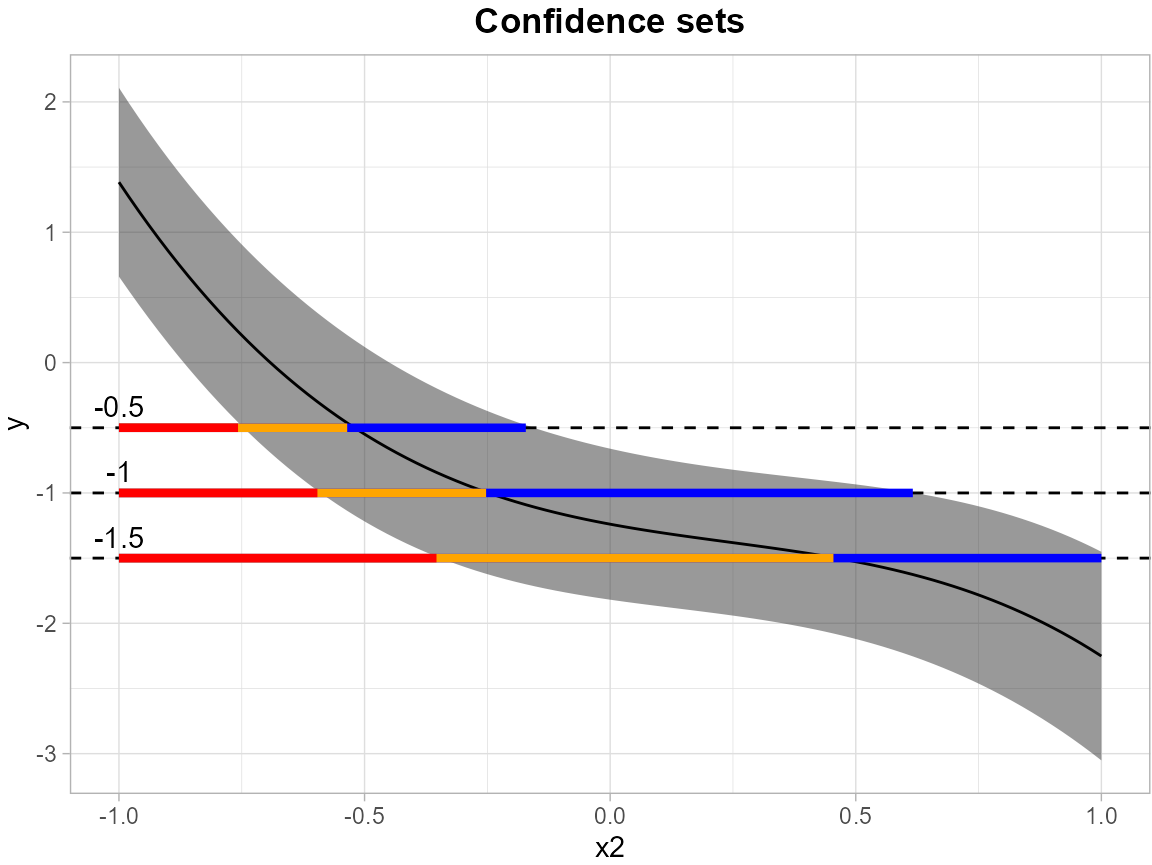
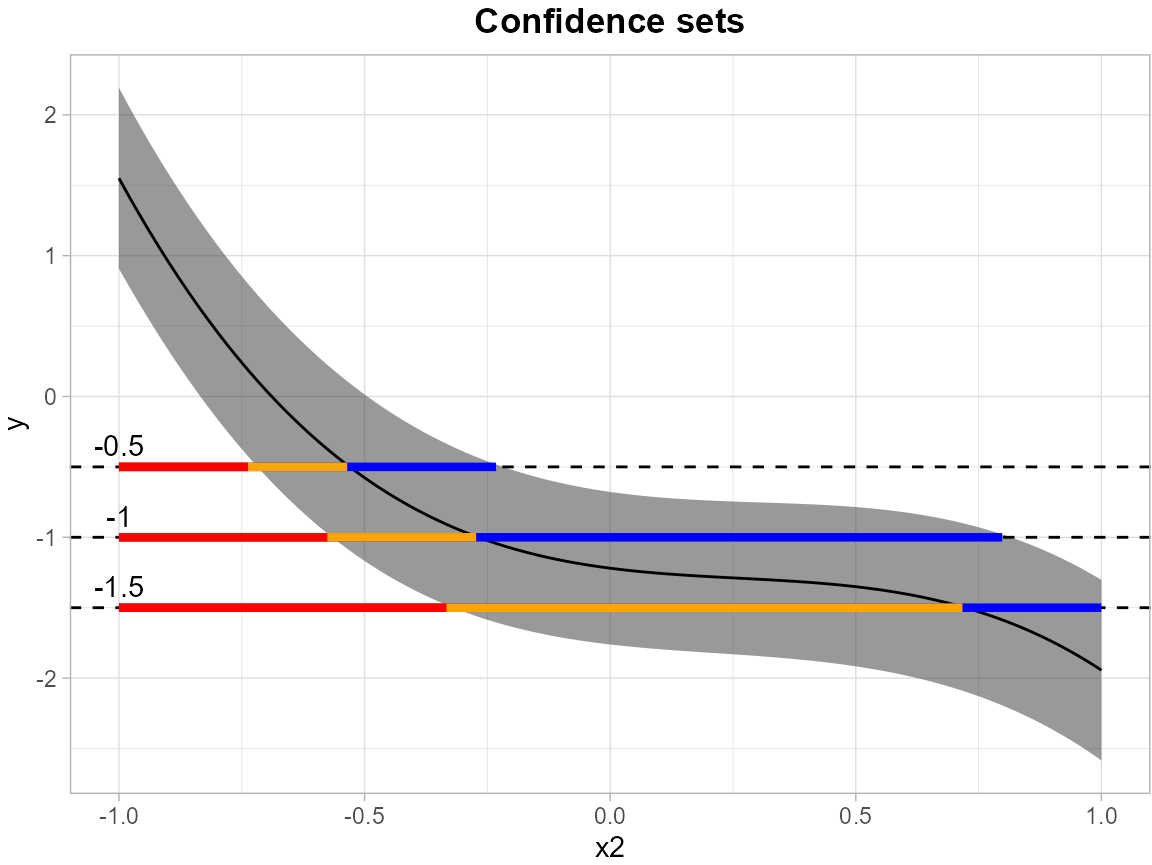
Update instructions in Linear_Model_Example vignette

diff --git a/docs/articles/Linear_Model_Example.html b/docs/articles/Linear_Model_Example.html
@@ -62,7 +62,7 @@
       <h1>Linear_Model_Example</h1>
                         <h4 data-toc-skip class="author">Angela Yu</h4>
             
-            <h4 data-toc-skip class="date">2025-09-25</h4>
+            <h4 data-toc-skip class="date">2025-09-26</h4>
       
       <small class="dont-index">Source: <a href="https://github.com/AngelaYuStat/SCoRES/blob/HEAD/vignettes/Linear_Model_Example.Rmd" class="external-link"><code>vignettes/Linear_Model_Example.Rmd</code></a></small>
       <div class="d-none name"><code>Linear_Model_Example.Rmd</code></div>
@@ -80,9 +80,15 @@ training design matrix used to fit the linear model, while
 <code>grid_df</code> define the mean outcome for which simultaneous
 confidence bands (SCB) are constructed. Use argument <code>model</code>
 to specify the formula used for fitting the linear model.</p>
-<p>In the following example, we establishes simultaneous confidence
-bands for the expected response surface
-<math display="inline" xmlns="http://www.w3.org/1998/Math/MathML"><semantics><mrow><mi>E</mi><mrow><mo stretchy="true" form="prefix">[</mo><mi>Y</mi><mo stretchy="false" form="prefix">|</mo><msub><mi>X</mi><mn>1</mn></msub><mo>,</mo><msubsup><mi>X</mi><mn>1</mn><mn>2</mn></msubsup><mo>,</mo><msubsup><mi>X</mi><mn>1</mn><mn>3</mn></msubsup><mo>,</mo><msub><mi>X</mi><mn>2</mn></msub><mo>,</mo><msubsup><mi>X</mi><mn>2</mn><mn>2</mn></msubsup><mo>,</mo><msubsup><mi>X</mi><mn>3</mn><mn>2</mn></msubsup><mo stretchy="true" form="postfix">]</mo></mrow></mrow><annotation encoding="application/x-tex">E[Y|X_1,X^2_1,X^3_1,X_2,X^2_2,X^2_3]</annotation></semantics></math>,
+<p>In the following example, we use a linear regression to estimate the
+simultaneous confidence band (SCB) for the mean outcome, with modeling
+equation as follows:</p>
+<p><math display="block" xmlns="http://www.w3.org/1998/Math/MathML"><semantics><mrow><msub><mi>Y</mi><mi>i</mi></msub><mo>=</mo><msub><mi>β</mi><mn>0</mn></msub><mo>+</mo><msub><mi>β</mi><mn>1</mn></msub><msub><mi>x</mi><mrow><mi>i</mi><mn>1</mn></mrow></msub><mo>+</mo><msub><mi>β</mi><mn>2</mn></msub><msubsup><mi>x</mi><mrow><mi>i</mi><mn>1</mn></mrow><mn>2</mn></msubsup><mo>+</mo><msub><mi>β</mi><mn>3</mn></msub><msubsup><mi>x</mi><mrow><mi>i</mi><mn>1</mn></mrow><mn>3</mn></msubsup><mo>+</mo><msub><mi>β</mi><mn>4</mn></msub><msub><mi>x</mi><mrow><mi>i</mi><mn>2</mn></mrow></msub><mo>+</mo><msub><mi>β</mi><mn>5</mn></msub><msubsup><mi>x</mi><mrow><mi>i</mi><mn>2</mn></mrow><mn>2</mn></msubsup><mo>+</mo><msub><mi>β</mi><mn>6</mn></msub><msubsup><mi>x</mi><mrow><mi>i</mi><mn>2</mn></mrow><mn>3</mn></msubsup><mo>+</mo><msub><mi>ϵ</mi><mi>i</mi></msub></mrow><annotation encoding="application/x-tex">
+Y_i = \beta_0 + \beta_1 x_{i1} + \beta_2 x_{i1}^2 + \beta_3 x_{i1}^3 + \beta_4 x_{i2} + \beta_5 x_{i2}^2 + \beta_6 x_{i2}^3 + \epsilon_i
+</annotation></semantics></math></p>
+<p>We establish simultaneous confidence bands for the expected response
+surface
+<math display="inline" xmlns="http://www.w3.org/1998/Math/MathML"><semantics><mrow><mi>E</mi><mrow><mo stretchy="true" form="prefix">[</mo><mi>Y</mi><mo stretchy="false" form="prefix">|</mo><msub><mi>X</mi><mn>1</mn></msub><mo>,</mo><msub><mi>X</mi><mn>2</mn></msub><mo stretchy="true" form="postfix">]</mo></mrow></mrow><annotation encoding="application/x-tex">E[Y|X_1,X_2]</annotation></semantics></math>,
 with the independent variables
 <math display="inline" xmlns="http://www.w3.org/1998/Math/MathML"><semantics><msub><mi>X</mi><mn>1</mn></msub><annotation encoding="application/x-tex">X_1</annotation></semantics></math>
 and
@@ -120,11 +126,62 @@ the outer confidence region.</p>
 <span>        palette <span class="op">=</span> <span class="st">"Spectral"</span>, </span>
 <span>        color_level_label <span class="op">=</span> <span class="st">"black"</span><span class="op">)</span><span class="op">)</span></span></code></pre></div>
 <p><img src="Linear_Model_Example_files/figure-html/simulate_plot_cs_linear-1.png" width="576"></p>
+<p>In the following example, we establishes simultaneous confidence
+bands for the expected response surface
+<math display="inline" xmlns="http://www.w3.org/1998/Math/MathML"><semantics><mrow><mi>E</mi><mrow><mo stretchy="true" form="prefix">[</mo><mi>Y</mi><mo stretchy="false" form="prefix">|</mo><msub><mi>X</mi><mn>1</mn></msub><mo>,</mo><msub><mi>X</mi><mn>2</mn></msub><mo>=</mo><mn>0</mn><mo stretchy="true" form="postfix">]</mo></mrow></mrow><annotation encoding="application/x-tex">E[Y|X_1, X_2 =0]</annotation></semantics></math>,
+with the independent variable
+<math display="inline" xmlns="http://www.w3.org/1998/Math/MathML"><semantics><msub><mi>X</mi><mn>1</mn></msub><annotation encoding="application/x-tex">X_1</annotation></semantics></math>
+discretized into 100 equidistant points over the domain
+<math display="inline" xmlns="http://www.w3.org/1998/Math/MathML"><semantics><mrow><mo stretchy="true" form="prefix">[</mo><mi>−</mi><mn>1</mn><mo>,</mo><mn>1</mn><mo stretchy="true" form="postfix">]</mo></mrow><annotation encoding="application/x-tex">[-1, 1]</annotation></semantics></math>.</p>
+<div class="sourceCode" id="cb3"><pre class="downlit sourceCode r">
+<code class="sourceCode R"><span><span class="va">x1</span> <span class="op">&lt;-</span> <span class="fu"><a href="https://rdrr.io/r/stats/Normal.html" class="external-link">rnorm</a></span><span class="op">(</span><span class="fl">100</span><span class="op">)</span></span>
+<span><span class="va">x2</span> <span class="op">&lt;-</span> <span class="fu"><a href="https://rdrr.io/r/stats/Normal.html" class="external-link">rnorm</a></span><span class="op">(</span><span class="fl">100</span><span class="op">)</span></span>
+<span><span class="va">epsilon</span> <span class="op">&lt;-</span> <span class="fu"><a href="https://rdrr.io/r/stats/Normal.html" class="external-link">rnorm</a></span><span class="op">(</span><span class="fl">100</span>,<span class="fl">0</span>,<span class="fu"><a href="https://rdrr.io/r/base/MathFun.html" class="external-link">sqrt</a></span><span class="op">(</span><span class="fl">2</span><span class="op">)</span><span class="op">)</span></span>
+<span><span class="va">y</span> <span class="op">&lt;-</span> <span class="op">-</span><span class="fl">1</span> <span class="op">+</span> <span class="va">x1</span> <span class="op">+</span> <span class="fl">0.5</span> <span class="op">*</span> <span class="va">x1</span><span class="op">^</span><span class="fl">2</span> <span class="op">-</span> <span class="fl">1.1</span> <span class="op">*</span> <span class="va">x1</span><span class="op">^</span><span class="fl">3</span> <span class="op">-</span> <span class="fl">0.5</span> <span class="op">*</span> <span class="va">x2</span> <span class="op">+</span> <span class="fl">0.8</span> <span class="op">*</span> <span class="va">x2</span><span class="op">^</span><span class="fl">2</span> <span class="op">-</span> <span class="fl">1.1</span> <span class="op">*</span> <span class="va">x2</span><span class="op">^</span><span class="fl">3</span> <span class="op">+</span> <span class="va">epsilon</span></span>
+<span><span class="va">df</span> <span class="op">&lt;-</span> <span class="fu"><a href="https://rdrr.io/r/base/data.frame.html" class="external-link">data.frame</a></span><span class="op">(</span>x1 <span class="op">=</span> <span class="va">x1</span>, x2 <span class="op">=</span> <span class="va">x2</span>, y <span class="op">=</span> <span class="va">y</span><span class="op">)</span></span>
+<span><span class="co"># fit the linear regression model and obtain the SCB for y</span></span>
+<span><span class="va">model</span> <span class="op">&lt;-</span> <span class="st">"y ~ x1 + I(x1^2) + I(x1^3) + x2 + I(x2^2) + I(x2^3)"</span></span>
+<span><span class="va">grid</span> <span class="op">&lt;-</span> <span class="fu"><a href="https://rdrr.io/r/base/data.frame.html" class="external-link">data.frame</a></span><span class="op">(</span>x2 <span class="op">=</span> <span class="fu"><a href="https://rdrr.io/r/base/seq.html" class="external-link">seq</a></span><span class="op">(</span><span class="op">-</span><span class="fl">1</span>, <span class="fl">1</span>, length.out <span class="op">=</span> <span class="fl">100</span><span class="op">)</span><span class="op">)</span></span>
+<span><span class="va">results</span> <span class="op">&lt;-</span> <span class="fu"><a href="../reference/SCB_linear_outcome.html">SCB_linear_outcome</a></span><span class="op">(</span>df_fit <span class="op">=</span> <span class="va">df</span>, model <span class="op">=</span> <span class="va">model</span>, grid_df <span class="op">=</span> <span class="va">grid</span><span class="op">)</span></span></code></pre></div>
+<p>The <code>levels = c(-1.5, -1.0, -0.5)</code> argument specifies a
+set of thresholds, and <code><a href="../reference/plot_cs.html">SCoRES::plot_cs()</a></code> function estimates
+multiple inverse upper excursion sets corresponding to these thresholds,
+and plot the estimated inverse region, the inner confidence region, and
+the outer confidence region.</p>
+<div class="sourceCode" id="cb4"><pre class="downlit sourceCode r">
+<code class="sourceCode R"><span><span class="va">results</span> <span class="op">&lt;-</span> <span class="fu">tibble</span><span class="fu">::</span><span class="fu"><a href="https://tibble.tidyverse.org/reference/as_tibble.html" class="external-link">as_tibble</a></span><span class="op">(</span><span class="va">results</span><span class="op">)</span></span>
+<span><span class="fu"><a href="https://rdrr.io/r/base/warning.html" class="external-link">suppressWarnings</a></span><span class="op">(</span><span class="fu"><a href="../reference/plot_cs.html">plot_cs</a></span><span class="op">(</span><span class="va">results</span>,</span>
+<span>        levels <span class="op">=</span> <span class="fu"><a href="https://rdrr.io/r/base/c.html" class="external-link">c</a></span><span class="op">(</span><span class="op">-</span><span class="fl">1.5</span>, <span class="op">-</span><span class="fl">1.0</span>, <span class="op">-</span><span class="fl">0.5</span><span class="op">)</span>, </span>
+<span>        x <span class="op">=</span> <span class="fu"><a href="https://rdrr.io/r/base/seq.html" class="external-link">seq</a></span><span class="op">(</span><span class="op">-</span><span class="fl">1</span>, <span class="fl">1</span>, length.out <span class="op">=</span> <span class="fl">100</span><span class="op">)</span>, </span>
+<span>        mu_hat <span class="op">=</span> <span class="va">results</span><span class="op">$</span><span class="va">Mean</span>, </span>
+<span>        xlab <span class="op">=</span> <span class="st">"x2"</span>, </span>
+<span>        ylab <span class="op">=</span> <span class="st">"y"</span>, </span>
+<span>        level_label <span class="op">=</span> <span class="cn">T</span>, </span>
+<span>        min.size <span class="op">=</span> <span class="fl">40</span>, </span>
+<span>        palette <span class="op">=</span> <span class="st">"Spectral"</span>, </span>
+<span>        color_level_label <span class="op">=</span> <span class="st">"black"</span><span class="op">)</span><span class="op">)</span></span></code></pre></div>
+<p><img src="Linear_Model_Example_files/figure-html/simulate_plot_cs_linear_2-1.png" width="576"></p>
 <p>In addition to linear regression, <code>SCoRES</code> also
 provides<code><a href="../reference/SCB_logistic_outcome.html">SCoRES::SCB_logistic_outcome()</a></code> for estimating the
-SCB for outcome of logistic regression. The mean outcome here for
-establishing the SCB stays the same.</p>
-<div class="sourceCode" id="cb3"><pre class="downlit sourceCode r">
+SCB for outcome of logistic regression.</p>
+<p>Here, we use a similar model structure with logistic regression to
+estimate the simultaneous confidence band (SCB) for the outcome
+probability, with modeling equation as follows:</p>
+<p><math display="block" xmlns="http://www.w3.org/1998/Math/MathML"><semantics><mrow><msub><mi>Y</mi><mi>i</mi></msub><mo>∼</mo><mi>B</mi><mi>e</mi><mi>r</mi><mi>n</mi><mi>o</mi><mi>u</mi><mi>l</mi><mi>l</mi><mi>i</mi><mrow><mo stretchy="true" form="prefix">(</mo><msub><mi>p</mi><mi>i</mi></msub><mo stretchy="true" form="postfix">)</mo></mrow></mrow><annotation encoding="application/x-tex">
+Y_i \sim Bernoulli(p_i)
+</annotation></semantics></math><math display="block" xmlns="http://www.w3.org/1998/Math/MathML"><semantics><mrow><mo>log</mo><mrow><mo stretchy="true" form="prefix">(</mo><mfrac><msub><mi>p</mi><mi>i</mi></msub><mrow><mn>1</mn><mo>−</mo><msub><mi>p</mi><mi>i</mi></msub></mrow></mfrac><mo stretchy="true" form="postfix">)</mo></mrow><mo>=</mo><msub><mi>β</mi><mn>0</mn></msub><mo>+</mo><msub><mi>β</mi><mn>1</mn></msub><msub><mi>x</mi><mrow><mi>i</mi><mn>1</mn></mrow></msub><mo>+</mo><msub><mi>β</mi><mn>2</mn></msub><msubsup><mi>x</mi><mrow><mi>i</mi><mn>1</mn></mrow><mn>2</mn></msubsup><mo>+</mo><msub><mi>β</mi><mn>3</mn></msub><msubsup><mi>x</mi><mrow><mi>i</mi><mn>1</mn></mrow><mn>3</mn></msubsup><mo>+</mo><msub><mi>β</mi><mn>4</mn></msub><msub><mi>x</mi><mrow><mi>i</mi><mn>2</mn></mrow></msub><mo>+</mo><msub><mi>β</mi><mn>5</mn></msub><msubsup><mi>x</mi><mrow><mi>i</mi><mn>2</mn></mrow><mn>2</mn></msubsup><mo>+</mo><msub><mi>β</mi><mn>6</mn></msub><msubsup><mi>x</mi><mrow><mi>i</mi><mn>2</mn></mrow><mn>3</mn></msubsup></mrow><annotation encoding="application/x-tex">
+\log\left(\frac{p_i}{1-p_i}\right) = \beta_0 + \beta_1 x_{i1} + \beta_2 x_{i1}^2 + \beta_3 x_{i1}^3 + \beta_4 x_{i2} + \beta_5 x_{i2}^2 + \beta_6 x_{i2}^3
+</annotation></semantics></math></p>
+<p>We establish simultaneous confidence bands for the expected response
+surface
+<math display="inline" xmlns="http://www.w3.org/1998/Math/MathML"><semantics><mrow><mtext mathvariant="normal">logit</mtext><mrow><mo stretchy="true" form="prefix">(</mo><mi>E</mi><mrow><mo stretchy="true" form="prefix">[</mo><mi>Y</mi><mo stretchy="false" form="prefix">|</mo><msub><mi>X</mi><mn>1</mn></msub><mo>,</mo><msub><mi>X</mi><mn>2</mn></msub><mo stretchy="true" form="postfix">]</mo></mrow><mo stretchy="true" form="postfix">)</mo></mrow></mrow><annotation encoding="application/x-tex">\text{logit}(E[Y|X_1,X_2])</annotation></semantics></math>,
+with the independent variables
+<math display="inline" xmlns="http://www.w3.org/1998/Math/MathML"><semantics><msub><mi>X</mi><mn>1</mn></msub><annotation encoding="application/x-tex">X_1</annotation></semantics></math>
+and
+<math display="inline" xmlns="http://www.w3.org/1998/Math/MathML"><semantics><msub><mi>X</mi><mn>2</mn></msub><annotation encoding="application/x-tex">X_2</annotation></semantics></math>
+discretized into 100 equidistant points over the domain
+<math display="inline" xmlns="http://www.w3.org/1998/Math/MathML"><semantics><mrow><mo stretchy="true" form="prefix">[</mo><mi>−</mi><mn>1</mn><mo>,</mo><mn>1</mn><mo stretchy="true" form="postfix">]</mo></mrow><annotation encoding="application/x-tex">[-1, 1]</annotation></semantics></math>.</p>
+<div class="sourceCode" id="cb5"><pre class="downlit sourceCode r">
 <code class="sourceCode R"><span><span class="co"># generate simulated data</span></span>
 <span><span class="va">x1</span> <span class="op">&lt;-</span> <span class="fu"><a href="https://rdrr.io/r/stats/Normal.html" class="external-link">rnorm</a></span><span class="op">(</span><span class="fl">100</span><span class="op">)</span></span>
 <span><span class="va">x2</span> <span class="op">&lt;-</span> <span class="fu"><a href="https://rdrr.io/r/stats/Normal.html" class="external-link">rnorm</a></span><span class="op">(</span><span class="fl">100</span><span class="op">)</span></span>
@@ -141,7 +198,7 @@ specifies a set of thresholds, and <code><a href="../reference/plot_cs.html">SCo
 function estimates multiple inverse upper excursion sets corresponding
 to these thresholds, and plot the estimated inverse region, the inner
 confidence region, and the outer confidence region.</p>
-<div class="sourceCode" id="cb4"><pre class="downlit sourceCode r">
+<div class="sourceCode" id="cb6"><pre class="downlit sourceCode r">
 <code class="sourceCode R"><span><span class="va">results</span> <span class="op">&lt;-</span> <span class="fu">tibble</span><span class="fu">::</span><span class="fu"><a href="https://tibble.tidyverse.org/reference/as_tibble.html" class="external-link">as_tibble</a></span><span class="op">(</span><span class="va">results</span><span class="op">)</span></span>
 <span><span class="fu"><a href="../reference/plot_cs.html">plot_cs</a></span><span class="op">(</span><span class="va">results</span>,</span>
 <span>        levels <span class="op">=</span> <span class="fu"><a href="https://rdrr.io/r/base/c.html" class="external-link">c</a></span><span class="op">(</span><span class="fl">0.3</span>, <span class="fl">0.4</span>, <span class="fl">0.5</span><span class="op">)</span>, </span>
@@ -154,37 +211,15 @@ confidence region, and the outer confidence region.</p>
 <span>        palette <span class="op">=</span> <span class="st">"Spectral"</span>, </span>
 <span>        color_level_label <span class="op">=</span> <span class="st">"black"</span><span class="op">)</span></span></code></pre></div>
 <p><img src="Linear_Model_Example_files/figure-html/simulate_plot_cs_logistic-1.png" width="576"></p>
-<p>In the following example, we establishes simultaneous confidence
-bands for the expected response surface
-<math display="inline" xmlns="http://www.w3.org/1998/Math/MathML"><semantics><mrow><mi>E</mi><mrow><mo stretchy="true" form="prefix">[</mo><mi>Y</mi><mo stretchy="false" form="prefix">|</mo><msub><mi>X</mi><mn>1</mn></msub><mo>,</mo><msubsup><mi>X</mi><mn>1</mn><mn>2</mn></msubsup><mo>,</mo><msubsup><mi>X</mi><mn>1</mn><mn>3</mn></msubsup><mo>,</mo><msub><mi>X</mi><mn>2</mn></msub><mo>=</mo><mn>0</mn><mo stretchy="true" form="postfix">]</mo></mrow></mrow><annotation encoding="application/x-tex">E[Y|X_1,X^2_1,X^3_1, X_2 =0]</annotation></semantics></math>,
-with the independent variable
-<math display="inline" xmlns="http://www.w3.org/1998/Math/MathML"><semantics><msub><mi>X</mi><mn>1</mn></msub><annotation encoding="application/x-tex">X_1</annotation></semantics></math>
-discretized into 100 equidistant points over the domain
-<math display="inline" xmlns="http://www.w3.org/1998/Math/MathML"><semantics><mrow><mo stretchy="true" form="prefix">[</mo><mi>−</mi><mn>1</mn><mo>,</mo><mn>1</mn><mo stretchy="true" form="postfix">]</mo></mrow><annotation encoding="application/x-tex">[-1, 1]</annotation></semantics></math>.</p>
-<div class="sourceCode" id="cb5"><pre class="downlit sourceCode r">
-<code class="sourceCode R"><span><span class="va">grid</span> <span class="op">&lt;-</span> <span class="fu"><a href="https://rdrr.io/r/base/data.frame.html" class="external-link">data.frame</a></span><span class="op">(</span>x2 <span class="op">=</span> <span class="fu"><a href="https://rdrr.io/r/base/seq.html" class="external-link">seq</a></span><span class="op">(</span><span class="op">-</span><span class="fl">1</span>, <span class="fl">1</span>, length.out <span class="op">=</span> <span class="fl">100</span><span class="op">)</span><span class="op">)</span></span>
-<span><span class="va">results</span> <span class="op">&lt;-</span> <span class="fu"><a href="../reference/SCB_logistic_outcome.html">SCB_logistic_outcome</a></span><span class="op">(</span>df_fit <span class="op">=</span> <span class="va">df</span>, model <span class="op">=</span> <span class="va">model</span>, grid_df <span class="op">=</span> <span class="va">grid</span><span class="op">)</span></span></code></pre></div>
-<p>The <code>levels = c(0.3, 0.4, 0.5)</code> argument specifies a set
-of thresholds, and <code><a href="../reference/plot_cs.html">SCoRES::plot_cs()</a></code> function estimates
-multiple inverse upper excursion sets corresponding to these thresholds,
-and plot the estimated inverse region, the inner confidence region, and
-the outer confidence region.</p>
-<div class="sourceCode" id="cb6"><pre class="downlit sourceCode r">
-<code class="sourceCode R"><span><span class="va">results</span> <span class="op">&lt;-</span> <span class="fu">tibble</span><span class="fu">::</span><span class="fu"><a href="https://tibble.tidyverse.org/reference/as_tibble.html" class="external-link">as_tibble</a></span><span class="op">(</span><span class="va">results</span><span class="op">)</span></span>
-<span><span class="fu"><a href="https://rdrr.io/r/base/warning.html" class="external-link">suppressWarnings</a></span><span class="op">(</span><span class="fu"><a href="../reference/plot_cs.html">plot_cs</a></span><span class="op">(</span><span class="va">results</span>,</span>
-<span>        levels <span class="op">=</span> <span class="fu"><a href="https://rdrr.io/r/base/c.html" class="external-link">c</a></span><span class="op">(</span><span class="fl">0.3</span>, <span class="fl">0.4</span>, <span class="fl">0.5</span><span class="op">)</span>, </span>
-<span>        x <span class="op">=</span> <span class="fu"><a href="https://rdrr.io/r/base/seq.html" class="external-link">seq</a></span><span class="op">(</span><span class="op">-</span><span class="fl">1</span>, <span class="fl">1</span>, length.out <span class="op">=</span> <span class="fl">100</span><span class="op">)</span>, </span>
-<span>        mu_hat <span class="op">=</span> <span class="va">results</span><span class="op">$</span><span class="va">Mean</span>, </span>
-<span>        xlab <span class="op">=</span> <span class="st">"x2"</span>, </span>
-<span>        ylab <span class="op">=</span> <span class="st">"y"</span>, </span>
-<span>        level_label <span class="op">=</span> <span class="cn">T</span>, </span>
-<span>        min.size <span class="op">=</span> <span class="fl">40</span>, </span>
-<span>        palette <span class="op">=</span> <span class="st">"Spectral"</span>, </span>
-<span>        color_level_label <span class="op">=</span> <span class="st">"black"</span><span class="op">)</span><span class="op">)</span></span></code></pre></div>
-<p><img src="Linear_Model_Example_files/figure-html/simulate_plot_cs_logistic_2-1.png" width="576"></p>
 <p>Besides, <code><a href="../reference/SCB_regression_coef.html">SCoRES::SCB_regression_coef</a></code> can estimate the
-SCB for every coefficient (50 in total) in the linear/logistic
-model.</p>
+SCB for every coefficient in the linear/logistic model.</p>
+<p>Here, we use a linear regression model with 50 coefficients in total
+to estimate the simultaneous confidence band (SCB) for all coefficients
+and the intercept, with modeling equation as follows:
+<math display="block" xmlns="http://www.w3.org/1998/Math/MathML"><semantics><mrow><msub><mi>Y</mi><mi>i</mi></msub><mo>=</mo><munderover><mo>∑</mo><mrow><mi>j</mi><mo>=</mo><mn>1</mn></mrow><mn>50</mn></munderover><msub><mi>X</mi><mrow><mi>i</mi><mi>j</mi></mrow></msub><msub><mi>β</mi><mi>j</mi></msub><mo>+</mo><msub><mi>ϵ</mi><mi>i</mi></msub><mo>,</mo></mrow><annotation encoding="application/x-tex">
+Y_i = \sum^{50}_{j=1}X_{ij}\beta_j + \epsilon_i,
+</annotation></semantics></math> where
+<math display="inline" xmlns="http://www.w3.org/1998/Math/MathML"><semantics><mrow><mi>C</mi><mi>o</mi><mi>v</mi><mrow><mo stretchy="true" form="prefix">(</mo><msub><mi>X</mi><mi>i</mi></msub><mo>,</mo><msub><mi>X</mi><mi>j</mi></msub><mo stretchy="true" form="postfix">)</mo></mrow><mo>=</mo><msup><mn>0.4</mn><mrow><mo stretchy="true" form="prefix">|</mo><mi>i</mi><mo>−</mo><mi>j</mi><mo stretchy="true" form="postfix">|</mo></mrow></msup></mrow><annotation encoding="application/x-tex">Cov(X_i, X_j)=0.4^{|i-j|}</annotation></semantics></math>.</p>
 <div class="sourceCode" id="cb7"><pre class="downlit sourceCode r">
 <code class="sourceCode R"><span><span class="kw"><a href="https://rdrr.io/r/base/library.html" class="external-link">library</a></span><span class="op">(</span><span class="va"><a href="http://www.stats.ox.ac.uk/pub/MASS4/" class="external-link">MASS</a></span><span class="op">)</span></span>
 <span><span class="co"># generate simulated data</span></span>
@@ -244,10 +279,13 @@ for model:
 <span>                       grid_df <span class="op">=</span> <span class="va">grid</span>, n_boot <span class="op">=</span> <span class="fl">50</span>, alpha <span class="op">=</span> <span class="fl">0.1</span>,</span>
 <span>                       fitted <span class="op">=</span> <span class="cn">FALSE</span>, w <span class="op">=</span> <span class="va">w</span><span class="op">)</span></span>
 <span><span class="co">#&gt;            scb_low      Mean   scb_up</span></span>
-<span><span class="co">#&gt; scb_low -0.6793555 0.2371476 1.153651</span></span></code></pre></div>
+<span><span class="co">#&gt; scb_low -0.4971322 0.3964766 1.290085</span></span></code></pre></div>
 <p>In the following example, we load <code>ipad</code> dataset, and
 establishes simultaneous confidence bands for all the coefficients and
-the intercept in the model fitted.</p>
+the intercept in the model fitted. Here, we set <code>log(t_mmr1)</code>
+as the outcome, and include all variables from
+<code>Pupillography</code>, <code>Tablet (task metrics)</code> and
+<code>Cardiovascular</code> as predictors.</p>
 <div class="sourceCode" id="cb10"><pre class="downlit sourceCode r">
 <code class="sourceCode R"><span><span class="kw"><a href="https://rdrr.io/r/base/library.html" class="external-link">library</a></span><span class="op">(</span><span class="va"><a href="https://angelayustat.github.io/SCoRES">SCoRES</a></span><span class="op">)</span></span>
 <span><span class="kw"><a href="https://rdrr.io/r/base/library.html" class="external-link">library</a></span><span class="op">(</span><span class="va"><a href="https://dplyr.tidyverse.org" class="external-link">dplyr</a></span><span class="op">)</span></span>
@@ -277,10 +315,10 @@ and plot the estimated inverse region, the inner confidence region, and
 the outer confidence region. Here, for illustration, we filter out the
 SCB for intercept.</p>
 <div class="sourceCode" id="cb11"><pre class="downlit sourceCode r">
-<code class="sourceCode R"><span><span class="va">results</span> <span class="op">&lt;-</span> <span class="fu">tibble</span><span class="fu">::</span><span class="fu"><a href="https://tibble.tidyverse.org/reference/as_tibble.html" class="external-link">as_tibble</a></span><span class="op">(</span><span class="va">results</span><span class="op">)</span></span>
+<code class="sourceCode R"><span><span class="va">results</span> <span class="op">&lt;-</span> <span class="fu">tibble</span><span class="fu">::</span><span class="fu"><a href="https://tibble.tidyverse.org/reference/as_tibble.html" class="external-link">as_tibble</a></span><span class="op">(</span><span class="va">results</span><span class="op">[</span><span class="op">-</span><span class="fl">1</span>, <span class="op">]</span><span class="op">)</span></span>
 <span><span class="fu"><a href="https://rdrr.io/r/base/warning.html" class="external-link">suppressWarnings</a></span><span class="op">(</span><span class="fu"><a href="../reference/plot_cs.html">plot_cs</a></span><span class="op">(</span><span class="va">results</span>,</span>
 <span>        levels <span class="op">=</span> <span class="fu"><a href="https://rdrr.io/r/base/c.html" class="external-link">c</a></span><span class="op">(</span><span class="fl">0.2</span>, <span class="fl">0.3</span>, <span class="fl">0.4</span><span class="op">)</span>, </span>
-<span>        x <span class="op">=</span> <span class="fu"><a href="https://rdrr.io/r/base/c.html" class="external-link">c</a></span><span class="op">(</span><span class="st">"Intercept"</span>, <span class="fu"><a href="https://rdrr.io/r/base/names.html" class="external-link">names</a></span><span class="op">(</span><span class="va">df_lin</span><span class="op">)</span><span class="op">[</span><span class="fl">1</span><span class="op">:</span><span class="op">(</span><span class="fu"><a href="https://rdrr.io/r/base/length.html" class="external-link">length</a></span><span class="op">(</span><span class="fu"><a href="https://rdrr.io/r/base/names.html" class="external-link">names</a></span><span class="op">(</span><span class="va">df_lin</span><span class="op">)</span><span class="op">)</span><span class="op">-</span><span class="fl">1</span><span class="op">)</span><span class="op">]</span><span class="op">)</span>, </span>
+<span>        x <span class="op">=</span> <span class="fu"><a href="https://rdrr.io/r/base/c.html" class="external-link">c</a></span><span class="op">(</span><span class="fu"><a href="https://rdrr.io/r/base/names.html" class="external-link">names</a></span><span class="op">(</span><span class="va">df_lin</span><span class="op">)</span><span class="op">[</span><span class="fl">1</span><span class="op">:</span><span class="op">(</span><span class="fu"><a href="https://rdrr.io/r/base/length.html" class="external-link">length</a></span><span class="op">(</span><span class="fu"><a href="https://rdrr.io/r/base/names.html" class="external-link">names</a></span><span class="op">(</span><span class="va">df_lin</span><span class="op">)</span><span class="op">)</span><span class="op">-</span><span class="fl">1</span><span class="op">)</span><span class="op">]</span><span class="op">)</span>, </span>
 <span>        mu_hat <span class="op">=</span> <span class="va">results</span><span class="op">$</span><span class="va">Mean</span>, </span>
 <span>        xlab <span class="op">=</span> <span class="st">""</span>, </span>
 <span>        ylab <span class="op">=</span> <span class="st">""</span>, </span>
@@ -289,7 +327,8 @@ SCB for intercept.</p>
 <span>        palette <span class="op">=</span> <span class="st">"Spectral"</span>, </span>
 <span>        color_level_label <span class="op">=</span> <span class="st">"black"</span><span class="op">)</span><span class="op">)</span></span></code></pre></div>
 <p><img src="Linear_Model_Example_files/figure-html/ipad_plot_cs_linear-1.png" width="576"></p>
-<p>We fit a logistic model with the same equation, and obtain SCBs for
+<p>We fit a logistic model with <code>recent_smoke</code> as outcome
+with the same predictors in linear regression model, and obtain SCBs for
 all coefficients and the intercept.</p>
 <div class="sourceCode" id="cb12"><pre class="downlit sourceCode r">
 <code class="sourceCode R"><span><span class="va">df_log</span> <span class="op">&lt;-</span> <span class="va">df</span> <span class="op"><a href="https://magrittr.tidyverse.org/reference/pipe.html" class="external-link">%&gt;%</a></span></span>
@@ -316,41 +355,6 @@ SCB for intercept.</p>
 <span>        palette <span class="op">=</span> <span class="st">"Spectral"</span>, </span>
 <span>        color_level_label <span class="op">=</span> <span class="st">"black"</span><span class="op">)</span><span class="op">)</span></span></code></pre></div>
 <p><img src="Linear_Model_Example_files/figure-html/ipad_plot_cs_logistic-1.png" width="576"></p>
-<p>In the following example, we establishes simultaneous confidence
-bands for the expected response surface
-<math display="inline" xmlns="http://www.w3.org/1998/Math/MathML"><semantics><mrow><mi>E</mi><mrow><mo stretchy="true" form="prefix">[</mo><mi>Y</mi><mo stretchy="false" form="prefix">|</mo><msub><mi>X</mi><mn>1</mn></msub><mo>,</mo><msubsup><mi>X</mi><mn>1</mn><mn>2</mn></msubsup><mo>,</mo><msubsup><mi>X</mi><mn>1</mn><mn>3</mn></msubsup><mo>,</mo><msub><mi>X</mi><mn>2</mn></msub><mo>=</mo><mn>0</mn><mo stretchy="true" form="postfix">]</mo></mrow></mrow><annotation encoding="application/x-tex">E[Y|X_1,X^2_1,X^3_1, X_2 =0]</annotation></semantics></math>,
-with the independent variable
-<math display="inline" xmlns="http://www.w3.org/1998/Math/MathML"><semantics><msub><mi>X</mi><mn>1</mn></msub><annotation encoding="application/x-tex">X_1</annotation></semantics></math>
-discretized into 100 equidistant points over the domain
-<math display="inline" xmlns="http://www.w3.org/1998/Math/MathML"><semantics><mrow><mo stretchy="true" form="prefix">[</mo><mi>−</mi><mn>1</mn><mo>,</mo><mn>1</mn><mo stretchy="true" form="postfix">]</mo></mrow><annotation encoding="application/x-tex">[-1, 1]</annotation></semantics></math>.</p>
-<div class="sourceCode" id="cb14"><pre class="downlit sourceCode r">
-<code class="sourceCode R"><span><span class="va">x1</span> <span class="op">&lt;-</span> <span class="fu"><a href="https://rdrr.io/r/stats/Normal.html" class="external-link">rnorm</a></span><span class="op">(</span><span class="fl">100</span><span class="op">)</span></span>
-<span><span class="va">x2</span> <span class="op">&lt;-</span> <span class="fu"><a href="https://rdrr.io/r/stats/Normal.html" class="external-link">rnorm</a></span><span class="op">(</span><span class="fl">100</span><span class="op">)</span></span>
-<span><span class="va">epsilon</span> <span class="op">&lt;-</span> <span class="fu"><a href="https://rdrr.io/r/stats/Normal.html" class="external-link">rnorm</a></span><span class="op">(</span><span class="fl">100</span>,<span class="fl">0</span>,<span class="fu"><a href="https://rdrr.io/r/base/MathFun.html" class="external-link">sqrt</a></span><span class="op">(</span><span class="fl">2</span><span class="op">)</span><span class="op">)</span></span>
-<span><span class="va">y</span> <span class="op">&lt;-</span> <span class="op">-</span><span class="fl">1</span> <span class="op">+</span> <span class="va">x1</span> <span class="op">+</span> <span class="fl">0.5</span> <span class="op">*</span> <span class="va">x1</span><span class="op">^</span><span class="fl">2</span> <span class="op">-</span> <span class="fl">1.1</span> <span class="op">*</span> <span class="va">x1</span><span class="op">^</span><span class="fl">3</span> <span class="op">-</span> <span class="fl">0.5</span> <span class="op">*</span> <span class="va">x2</span> <span class="op">+</span> <span class="fl">0.8</span> <span class="op">*</span> <span class="va">x2</span><span class="op">^</span><span class="fl">2</span> <span class="op">-</span> <span class="fl">1.1</span> <span class="op">*</span> <span class="va">x2</span><span class="op">^</span><span class="fl">3</span> <span class="op">+</span> <span class="va">epsilon</span></span>
-<span><span class="va">df</span> <span class="op">&lt;-</span> <span class="fu"><a href="https://rdrr.io/r/base/data.frame.html" class="external-link">data.frame</a></span><span class="op">(</span>x1 <span class="op">=</span> <span class="va">x1</span>, x2 <span class="op">=</span> <span class="va">x2</span>, y <span class="op">=</span> <span class="va">y</span><span class="op">)</span></span>
-<span><span class="co"># fit the linear regression model and obtain the SCB for y</span></span>
-<span><span class="va">model</span> <span class="op">&lt;-</span> <span class="st">"y ~ x1 + I(x1^2) + I(x1^3) + x2 + I(x2^2) + I(x2^3)"</span></span>
-<span><span class="va">grid</span> <span class="op">&lt;-</span> <span class="fu"><a href="https://rdrr.io/r/base/data.frame.html" class="external-link">data.frame</a></span><span class="op">(</span>x2 <span class="op">=</span> <span class="fu"><a href="https://rdrr.io/r/base/seq.html" class="external-link">seq</a></span><span class="op">(</span><span class="op">-</span><span class="fl">1</span>, <span class="fl">1</span>, length.out <span class="op">=</span> <span class="fl">100</span><span class="op">)</span><span class="op">)</span></span>
-<span><span class="va">results</span> <span class="op">&lt;-</span> <span class="fu"><a href="../reference/SCB_linear_outcome.html">SCB_linear_outcome</a></span><span class="op">(</span>df_fit <span class="op">=</span> <span class="va">df</span>, model <span class="op">=</span> <span class="va">model</span>, grid_df <span class="op">=</span> <span class="va">grid</span><span class="op">)</span></span></code></pre></div>
-<p>The <code>levels = c(-1.5, -1.0, -0.5)</code> argument specifies a
-set of thresholds, and <code><a href="../reference/plot_cs.html">SCoRES::plot_cs()</a></code> function estimates
-multiple inverse upper excursion sets corresponding to these thresholds,
-and plot the estimated inverse region, the inner confidence region, and
-the outer confidence region.</p>
-<div class="sourceCode" id="cb15"><pre class="downlit sourceCode r">
-<code class="sourceCode R"><span><span class="va">results</span> <span class="op">&lt;-</span> <span class="fu">tibble</span><span class="fu">::</span><span class="fu"><a href="https://tibble.tidyverse.org/reference/as_tibble.html" class="external-link">as_tibble</a></span><span class="op">(</span><span class="va">results</span><span class="op">)</span></span>
-<span><span class="fu"><a href="https://rdrr.io/r/base/warning.html" class="external-link">suppressWarnings</a></span><span class="op">(</span><span class="fu"><a href="../reference/plot_cs.html">plot_cs</a></span><span class="op">(</span><span class="va">results</span>,</span>
-<span>        levels <span class="op">=</span> <span class="fu"><a href="https://rdrr.io/r/base/c.html" class="external-link">c</a></span><span class="op">(</span><span class="op">-</span><span class="fl">1.5</span>, <span class="op">-</span><span class="fl">1.0</span>, <span class="op">-</span><span class="fl">0.5</span><span class="op">)</span>, </span>
-<span>        x <span class="op">=</span> <span class="fu"><a href="https://rdrr.io/r/base/seq.html" class="external-link">seq</a></span><span class="op">(</span><span class="op">-</span><span class="fl">1</span>, <span class="fl">1</span>, length.out <span class="op">=</span> <span class="fl">100</span><span class="op">)</span>, </span>
-<span>        mu_hat <span class="op">=</span> <span class="va">results</span><span class="op">$</span><span class="va">Mean</span>, </span>
-<span>        xlab <span class="op">=</span> <span class="st">"x2"</span>, </span>
-<span>        ylab <span class="op">=</span> <span class="st">"y"</span>, </span>
-<span>        level_label <span class="op">=</span> <span class="cn">T</span>, </span>
-<span>        min.size <span class="op">=</span> <span class="fl">40</span>, </span>
-<span>        palette <span class="op">=</span> <span class="st">"Spectral"</span>, </span>
-<span>        color_level_label <span class="op">=</span> <span class="st">"black"</span><span class="op">)</span><span class="op">)</span></span></code></pre></div>
-<p><img src="Linear_Model_Example_files/figure-html/simulate_plot_cs_linear_2-1.png" width="576"></p>
   </main><aside class="col-md-3"><nav id="toc" aria-label="Table of contents"><h2>On this page</h2>
     </nav></aside>
 </div>

diff --git a/docs/index.html b/docs/index.html
@@ -110,9 +110,9 @@ Y_i(t) = \beta_0(t) + \beta_1(t) X_{i1} + b_i(t) + \epsilon_i(t),
 <p>Here, we estimated SCBs using both options seperately for the mean outcome Y(t) of user’s group: <math display="inline" xmlns="http://www.w3.org/1998/Math/MathML"><semantics><mrow><mover><mi>f</mi><mo accent="true">̂</mo></mover><mrow><mo stretchy="true" form="prefix">(</mo><mi>t</mi><mo stretchy="true" form="postfix">)</mo></mrow><mo>=</mo><mi>E</mi><mrow><mo stretchy="true" form="prefix">[</mo><mi>Y</mi><mrow><mo stretchy="true" form="prefix">(</mo><mi>t</mi><mo stretchy="true" form="postfix">)</mo></mrow><mo stretchy="false" form="prefix">|</mo><msub><mi>X</mi><mn>1</mn></msub><mo>=</mo><mn>1</mn><mo stretchy="true" form="postfix">]</mo></mrow><mo>=</mo><msub><mi>β</mi><mn>0</mn></msub><mrow><mo stretchy="true" form="prefix">(</mo><mi>t</mi><mo stretchy="true" form="postfix">)</mo></mrow><mo>+</mo><msub><mi>β</mi><mn>1</mn></msub><mrow><mo stretchy="true" form="prefix">(</mo><mi>t</mi><mo stretchy="true" form="postfix">)</mo></mrow><mo>,</mo></mrow><annotation encoding="application/x-tex">\hat{f}(t) = E[Y(t) | X_{1} = 1]= \beta_0(t) + \beta_1(t),</annotation></semantics></math> where:</p>
 <ul>
 <li>
-<math display="inline" xmlns="http://www.w3.org/1998/Math/MathML"><semantics><mrow><msub><mi>Y</mi><mi>i</mi></msub><mrow><mo stretchy="true" form="prefix">(</mo><mi>t</mi><mo stretchy="true" form="postfix">)</mo></mrow></mrow><annotation encoding="application/x-tex">Y_i(t)</annotation></semantics></math> is a functional outcome (percent_change)</li>
+<math display="inline" xmlns="http://www.w3.org/1998/Math/MathML"><semantics><mrow><mi>Y</mi><mrow><mo stretchy="true" form="prefix">(</mo><mi>t</mi><mo stretchy="true" form="postfix">)</mo></mrow></mrow><annotation encoding="application/x-tex">Y(t)</annotation></semantics></math> is a functional outcome (percent_change)</li>
 <li>
-<math display="inline" xmlns="http://www.w3.org/1998/Math/MathML"><semantics><msub><mi>X</mi><mrow><mi>i</mi><mn>1</mn></mrow></msub><annotation encoding="application/x-tex">X_{i1}</annotation></semantics></math> is a scalar covariate (use)</li>
+<math display="inline" xmlns="http://www.w3.org/1998/Math/MathML"><semantics><msub><mi>X</mi><mn>1</mn></msub><annotation encoding="application/x-tex">X_{1}</annotation></semantics></math> is a scalar covariate (use)</li>
 </ul>
 <div class="sourceCode" id="cb5"><pre class="downlit sourceCode r">
 <code class="sourceCode R"><span><span class="co"># CMA approach</span></span>

diff --git a/docs/articles/Functional_Data_Example.html b/docs/articles/Functional_Data_Example.html
@@ -138,7 +138,7 @@ outcome Y(t) of user’s group:
 </annotation></semantics></math> where:</p>
 <ul>
 <li>
-<math display="inline" xmlns="http://www.w3.org/1998/Math/MathML"><semantics><msub><mi>Y</mi><mrow><mo stretchy="true" form="prefix">(</mo><mi>t</mi><mo stretchy="true" form="postfix">)</mo></mrow></msub><annotation encoding="application/x-tex">Y_(t)</annotation></semantics></math>
+<math display="inline" xmlns="http://www.w3.org/1998/Math/MathML"><semantics><mrow><mi>Y</mi><mrow><mo stretchy="true" form="prefix">(</mo><mi>t</mi><mo stretchy="true" form="postfix">)</mo></mrow></mrow><annotation encoding="application/x-tex">Y(t)</annotation></semantics></math>
 is a functional outcome (percent_change)</li>
 <li>
 <math display="inline" xmlns="http://www.w3.org/1998/Math/MathML"><semantics><msub><mi>X</mi><mn>1</mn></msub><annotation encoding="application/x-tex">X_{1}</annotation></semantics></math>

diff --git a/README.md b/README.md
@@ -125,8 +125,8 @@ outcome Y(t) of user’s group:
 $\hat{f}(t) = E[Y(t) | X_{1} = 1]= \beta_0(t) + \beta_1(t),$
 where:
 
-- $Y_i(t)$ is a functional outcome (percent_change)
-- $X_{i1}$ is a scalar covariate (use)
+- $Y(t)$ is a functional outcome (percent_change)
+- $X_{1}$ is a scalar covariate (use)
 
 ``` r
 # CMA approach
